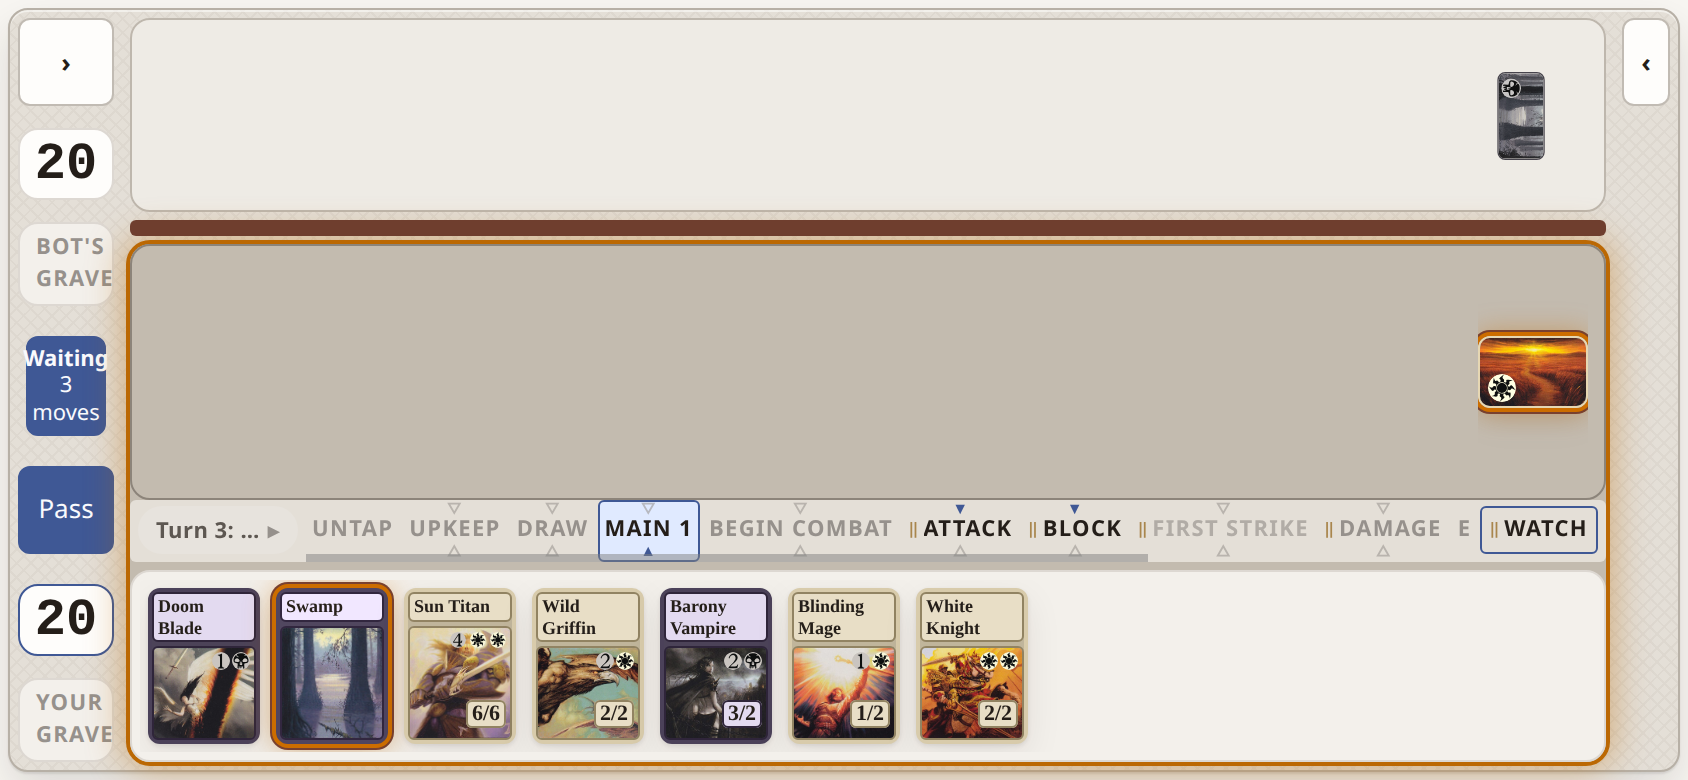
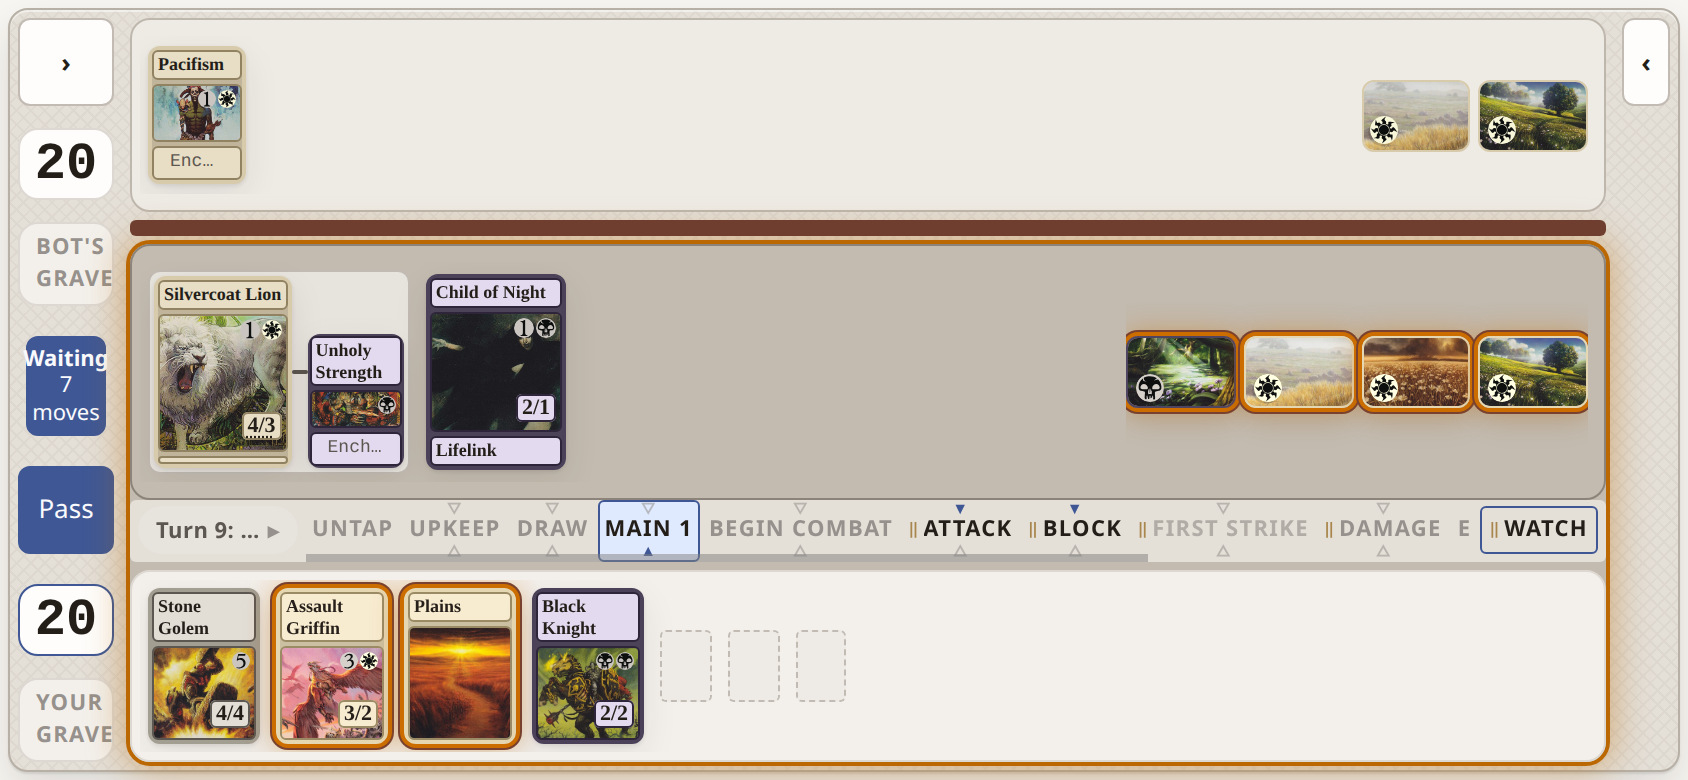
docs: show developed M11 gameplay

diff --git a/README.md b/README.md
@@ -30,8 +30,9 @@ npm run test:balance  # the seeded 10,035-game format-health gate
 
 ![Magic 2011 gameplay on a landscape phone](docs/screenshots/gameplay-m11-mobile.png)
 
-_Current mobile UI work with Scryfall-backed M11 art. This is a real sealed game
-running the reduced, exactly executable Magic 2011 reference set._
+_Current mobile UI work in a developed mid-game position with
+Scryfall-backed M11 art. This is a real sealed game running the reduced,
+exactly executable Magic 2011 reference set._
 
 ![Drafting Magic 2013 in the browser lab](docs/screenshots/draft-m13.png)
 
